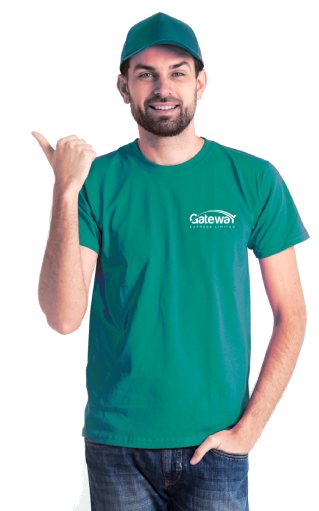
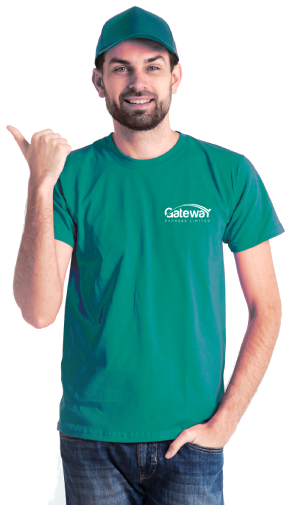
added : mobile responsive

Changed region(s): [[0.0, 0.0, 1.0, 1.0], [0.4062, 0.3861, 0.4688, 0.4158], [0.375, 0.802, 0.4062, 0.8317]]

diff --git a/home.html b/home.html
@@ -67,10 +67,10 @@
                   Iusto, omnis quas accusamus
                 </p>
 
-                <form class="form-inline mt-2">
+                <form id="trackId" class="form-inline mt-2">
                   <div class="form-group">
                     <input
-                      type="password"
+                      type="text"
                       class="form-control trackInput"
                       id="inputPassword2"
                       placeholder="#Traking ID"
@@ -126,22 +126,22 @@
     <section class="whyGatewayReasons">
       <div class="container">
         <div class="row">
-          <div class="col-12 col-sm-12 col-md-8 col-lg-8 col-xl-8">
+          <div class="col-12 col-sm-12 col-md-7 col-lg-7 col-xl-7">
             <div class="row">
               <div
-                class="col-12 col-sm-12 col-md-4 col-lg-4 col-xl-4 my-4 align-self-center"
+                class="col-12 col-sm-12 col-md-4 col-lg-4 col-xl-4 my-4 px-md-0 align-self-center"
               >
                 <div class="iconBox">
                   <img src="assets/images/cod.png" class="img-fluid" alt="" />
                 </div>
-                <h1>Cash On Delivary</h1>
+                <h1>Cash On Delivary(COD)</h1>
                 <p>
                   Lorem ipsum dolor sit amet consectetur adipisicing elit.
                   Adipisci,
                 </p>
               </div>
               <div
-                class="col-12 col-sm-12 col-md-4 col-lg-4 col-xl-4 my-4 align-self-center"
+                class="col-12 col-sm-12 col-md-4 col-lg-4 col-xl-4 my-4 px-md-0 align-self-center"
               >
                 <div class="iconBox">
                   <img
@@ -150,19 +150,19 @@
                     alt=""
                   />
                 </div>
-                <h1>Cash On Delivary</h1>
+                <h1>One Stop Solution</h1>
                 <p>
                   Lorem ipsum dolor sit amet consectetur adipisicing elit.
                   Adipisci,
                 </p>
               </div>
               <div
-                class="col-12 col-sm-12 col-md-4 col-lg-4 col-xl-4 my-4 align-self-center"
+                class="col-12 col-sm-12 col-md-4 col-lg-4 col-xl-4 my-4 px-md-0 align-self-center"
               >
                 <div class="iconBox">
                   <img src="assets/images/track.png" class="img-fluid" alt="" />
                 </div>
-                <h1>Cash On Delivary</h1>
+                <h1>Real Time Tracking</h1>
                 <p>
                   Lorem ipsum dolor sit amet consectetur adipisicing elit.
                   Adipisci,
@@ -171,36 +171,36 @@
             </div>
             <div class="row">
               <div
-                class="col-12 col-sm-12 col-md-4 col-lg-4 col-xl-4 mb-4 align-self-center"
+                class="col-12 col-sm-12 col-md-4 col-lg-4 col-xl-4 mb-4 px-md-0 align-self-center"
               >
                 <div class="iconBox">
                   <img src="assets/images/payment.png" alt="" />
                 </div>
-                <h1>Cash On Delivary</h1>
+                <h1>Payment Gateway</h1>
                 <p>
                   Lorem ipsum dolor sit amet consectetur adipisicing elit.
                   Adipisci,
                 </p>
               </div>
               <div
-                class="col-12 col-sm-12 col-md-4 col-lg-4 col-xl-4 mb-4 align-self-center"
+                class="col-12 col-sm-12 col-md-4 col-lg-4 col-xl-4 mb-4 px-md-0 align-self-center"
               >
                 <div class="iconBox">
                   <img src="assets/images/bdMap.png" class="img-fluid" alt="" />
                 </div>
-                <h1>Cash On Delivary</h1>
+                <h1>Wide Coverage</h1>
                 <p>
                   Lorem ipsum dolor sit amet consectetur adipisicing elit.
                   Adipisci,
                 </p>
               </div>
               <div
-                class="col-12 col-sm-12 col-md-4 col-lg-4 col-xl-4 mb-4 align-self-center"
+                class="col-12 col-sm-12 col-md-4 col-lg-4 col-xl-4 mb-4 px-md-0 align-self-center"
               >
                 <div class="iconBox">
                   <img src="assets/images/otp.png" class="img-fluid" alt="" />
                 </div>
-                <h1>Cash On Delivary</h1>
+                <h1>Confirmation with OTP</h1>
                 <p>
                   Lorem ipsum dolor sit amet consectetur adipisicing elit.
                   Adipisci,
@@ -209,9 +209,11 @@
             </div>
           </div>
           <div
-            class="col-12 col-sm-12 col-md-4 col-lg-4 col-xl-4 img-man d-md-block d-none"
+            class="col-12 col-sm-12 col-md-5 col-lg-5 col-xl-5 img-man d-md-block d-none"
           >
-            <img src="assets/images/man.png" width="600px" alt="" />
+            <div class="imgManContainer">
+              <img src="assets/images/man.png" alt="" />
+            </div>
           </div>
         </div>
       </div>
@@ -375,7 +377,7 @@
                     <p>Lorem ipsum.</p>
                   </div>
                 </div>
-                <div class="col-6 manImg d-md-block d-none">
+                <div class="col-6 manImg">
                   <img src="assets/images/manAboutUs.png" alt="" />
                 </div>
               </div>
@@ -471,7 +473,7 @@
 
     <script>
       $(function () {
-        $("#nav-id").load("nav.html");
+        $("#nav-id").load("nav-main.html");
         $("#footer-id").load("footer-main.html");
       });
     </script>

diff --git a/nav-main.html b/nav-main.html
@@ -1,0 +1,78 @@
+<!-- <div class="container-fluid bg-success text-center text-light">
+  <p class="my-0 py-1">Lorem ipsum dolor sit amet.</p>
+</div>
+
+<div class="container-fluid bg-warning text-center text-light">
+  <p class="my-0 py-1">Lorem ipsum dolor sit amet.</p>
+</div>
+<div class="container-fluid bg-danger text-center text-light">
+  <p class="my-0 py-1">Lorem ipsum dolor sit amet.</p>
+</div>
+
+<div class="container-fluid bg-info text-center text-light">
+  <p class="my-0 py-1">Lorem ipsum dolor sit amet.</p>
+</div> -->
+
+<!-- NavBar Section start -->
+
+<nav class="navbar navbar-expand-lg navbar-light bg-light">
+  <div class="nav-container container">
+    <a class="navbar-brand" href="#"
+      ><img src="assets/images/logo.png" class="navBarLogo" alt=""
+    /></a>
+    <button
+      class="navbar-toggler"
+      type="button"
+      data-toggle="collapse"
+      data-target="#navbarSupportedContent"
+      aria-controls="navbarSupportedContent"
+      aria-expanded="false"
+      aria-label="Toggle navigation"
+    >
+      <span class="navbar-toggler-icon"></span>
+    </button>
+
+    <div class="collapse navbar-collapse menu" id="navbarSupportedContent">
+      <ul class="navbar-nav ml-auto">
+        <li class="nav-item">
+          <a class="nav-link active" href="#">Home</a>
+        </li>
+
+        <li class="nav-item dropdown">
+          <a
+            class="nav-link dropdown-toggle"
+            href="#"
+            id="navbarDropdown"
+            data-toggle="dropdown"
+            aria-haspopup="true"
+            aria-expanded="false"
+          >
+            Dropdown
+          </a>
+          <div class="dropdown-menu">
+            <a class="dropdown-item" href="#">Action</a>
+            <a class="dropdown-item" href="#">Another action</a>
+            <a class="dropdown-item" href="#">Something else here</a>
+          </div>
+        </li>
+
+        <li class="nav-item">
+          <a class="nav-link" href="#">Tickets </a>
+        </li>
+        <li class="nav-item">
+          <a class="nav-link" href="#">Tickets </a>
+        </li>
+      </ul>
+      <div
+        class="signUpBox d-flex flex-column flex-md-row d-md-flex justify-content-md-center"
+        style="margin-left: 20%"
+      >
+        <button class="btn">Sign up</button>
+        <button class="btn btn-info" style="border-radius: 30px">
+          Registraion
+        </button>
+      </div>
+    </div>
+  </div>
+</nav>
+<!-- NavBar Section end -->

diff --git a/assets/css/style.css b/assets/css/style.css
@@ -989,12 +989,16 @@ h3.getInTouchTitle.pb-3 {
 .whyGatewayReasons .row {
   text-align: center;
   color: #ffffff;
-  position: relative;
 }
 .img-man {
+  position: relative;
+}
+.imgManContainer {
   position: absolute;
   bottom: 0;
-  right: 100px;
+}
+.imgManContainer img {
+  width: 80%;
 }
 
 .whyGatewayTittle h1 {
@@ -1120,9 +1124,8 @@ p.card-text {
 .aboutUs .box1,
 .aboutUs .box2,
 .aboutUs .box3 {
-  width: 226px;
-  height: 110px;
-  padding: 20px;
+  height: 70px;
+  padding: 10px;
 }
 .aboutUs .box1 {
   background-color: #03a79d;
@@ -1138,7 +1141,7 @@ p.card-text {
 .aboutUs .box1 h2,
 .aboutUs .box2 h2,
 .aboutUs .box3 h2 {
-  font-size: 1.375rem;
+  font-size: 1rem;
   letter-spacing: 0px;
   color: #ffffff;
   font-weight: 700;
@@ -1146,7 +1149,7 @@ p.card-text {
 .aboutUs .box1 p,
 .aboutUs .box2 p,
 .aboutUs .box3 p {
-  font-size: 1.125rem;
+  font-size: 0.8125rem;
   letter-spacing: 0px;
   color: #ffffff;
   font-weight: 400;
@@ -1154,7 +1157,14 @@ p.card-text {
 
 .aboutUs .manImg {
   width: 100%;
-  height: 460px;
+  height: 100%;
+  position: absolute;
+  top: 0;
+  right: 20px;
+}
+
+.aboutUs .manImg img {
+  height: 100%;
 }
 .beMerchant {
   padding: 100px 0px;
@@ -1221,10 +1231,31 @@ p.card-text {
   .aboutUs .thirdDiv {
     padding: 100px 0;
   }
+  .aboutUs .box1,
+  .aboutUs .box2,
+  .aboutUs .box3 {
+    width: 226px;
+    height: 110px;
+    padding: 20px;
+  }
+  .aboutUs .box1 h2,
+  .aboutUs .box2 h2,
+  .aboutUs .box3 h2 {
+    font-size: 1.375rem;
+  }
+  .aboutUs .box1 p,
+  .aboutUs .box2 p,
+  .aboutUs .box3 p {
+    font-size: 1.125rem;
+  }
+
   .aboutUs .manImg {
     position: absolute;
     top: 0;
-    right: 32px;
+    right: 50px;
+  }
+  .aboutUs .manImg img {
+    height: auto;
   }
 }
 @media (max-width: 377px) {
